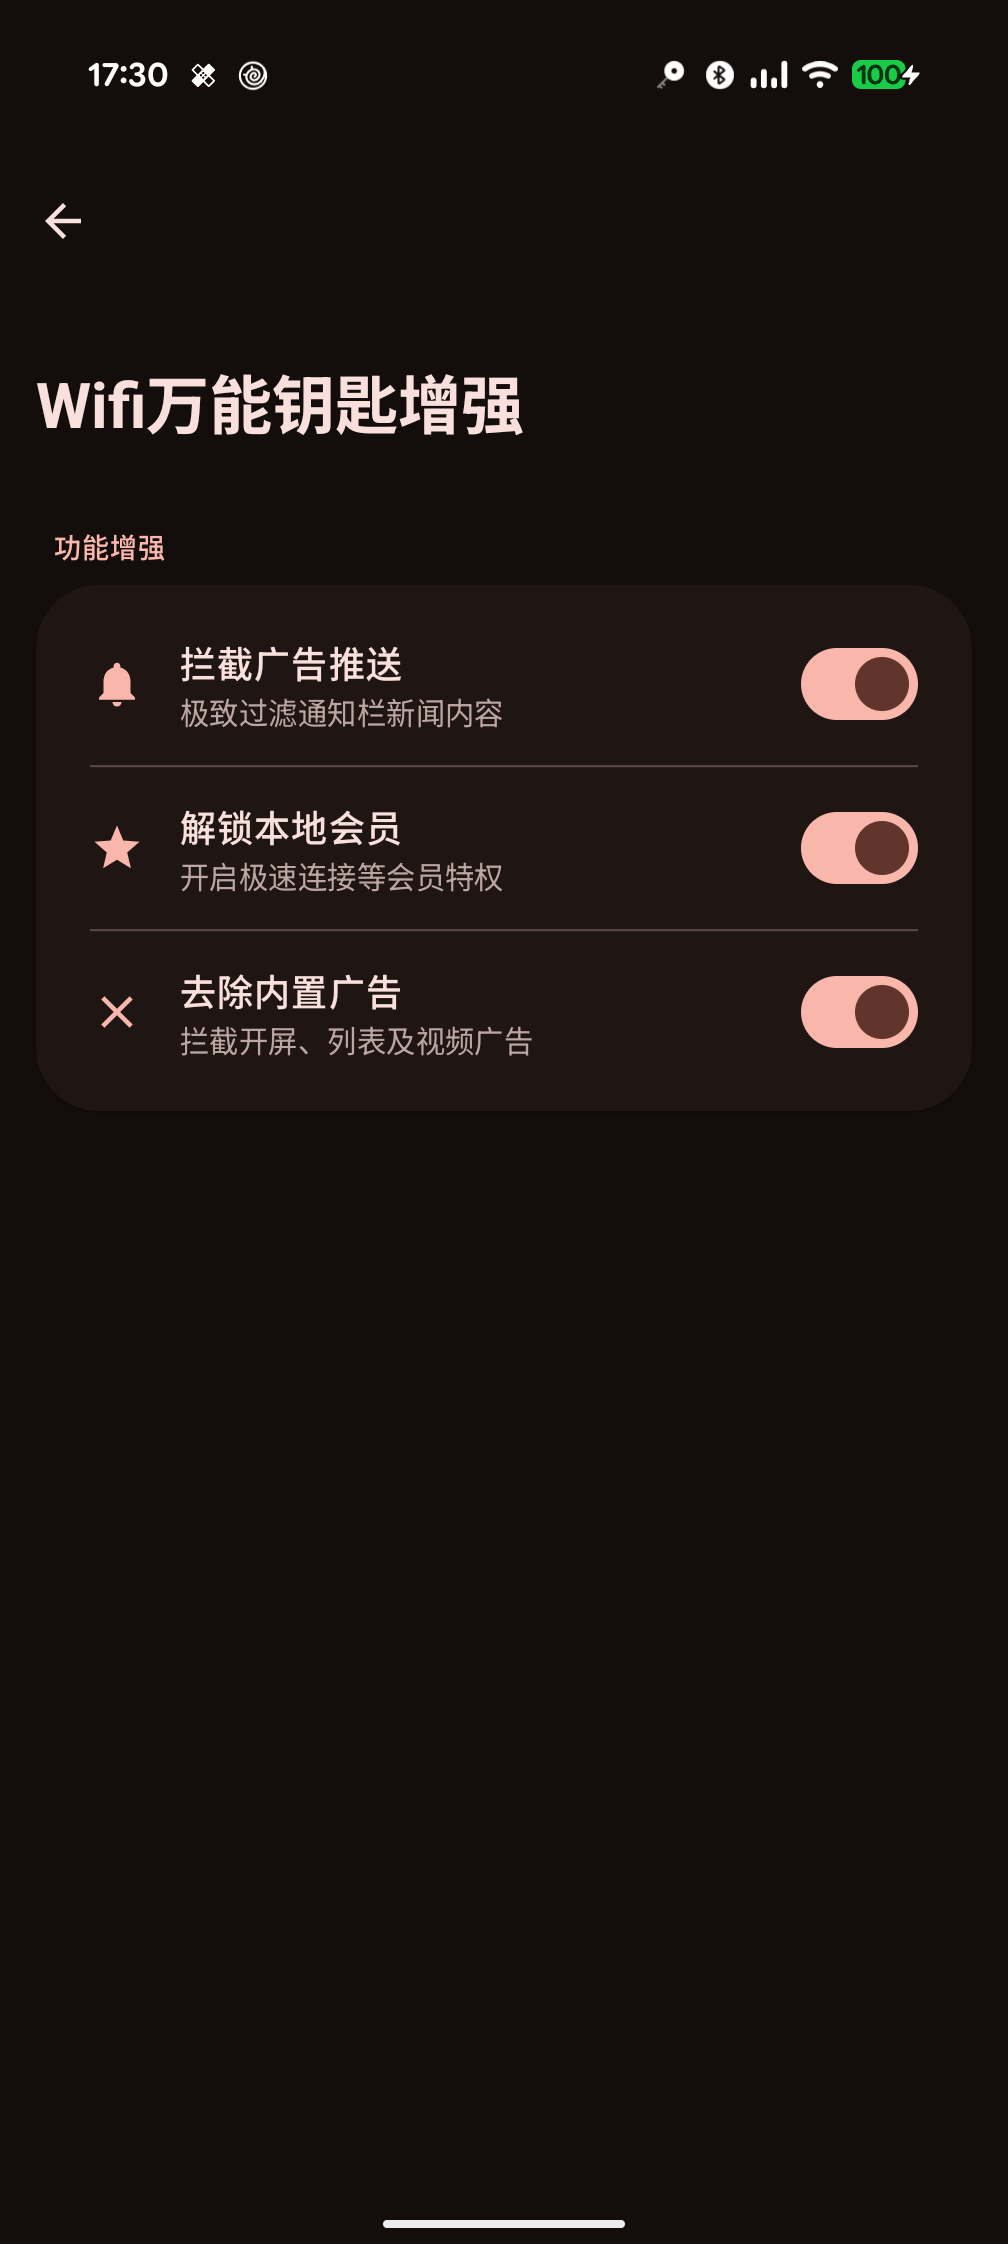
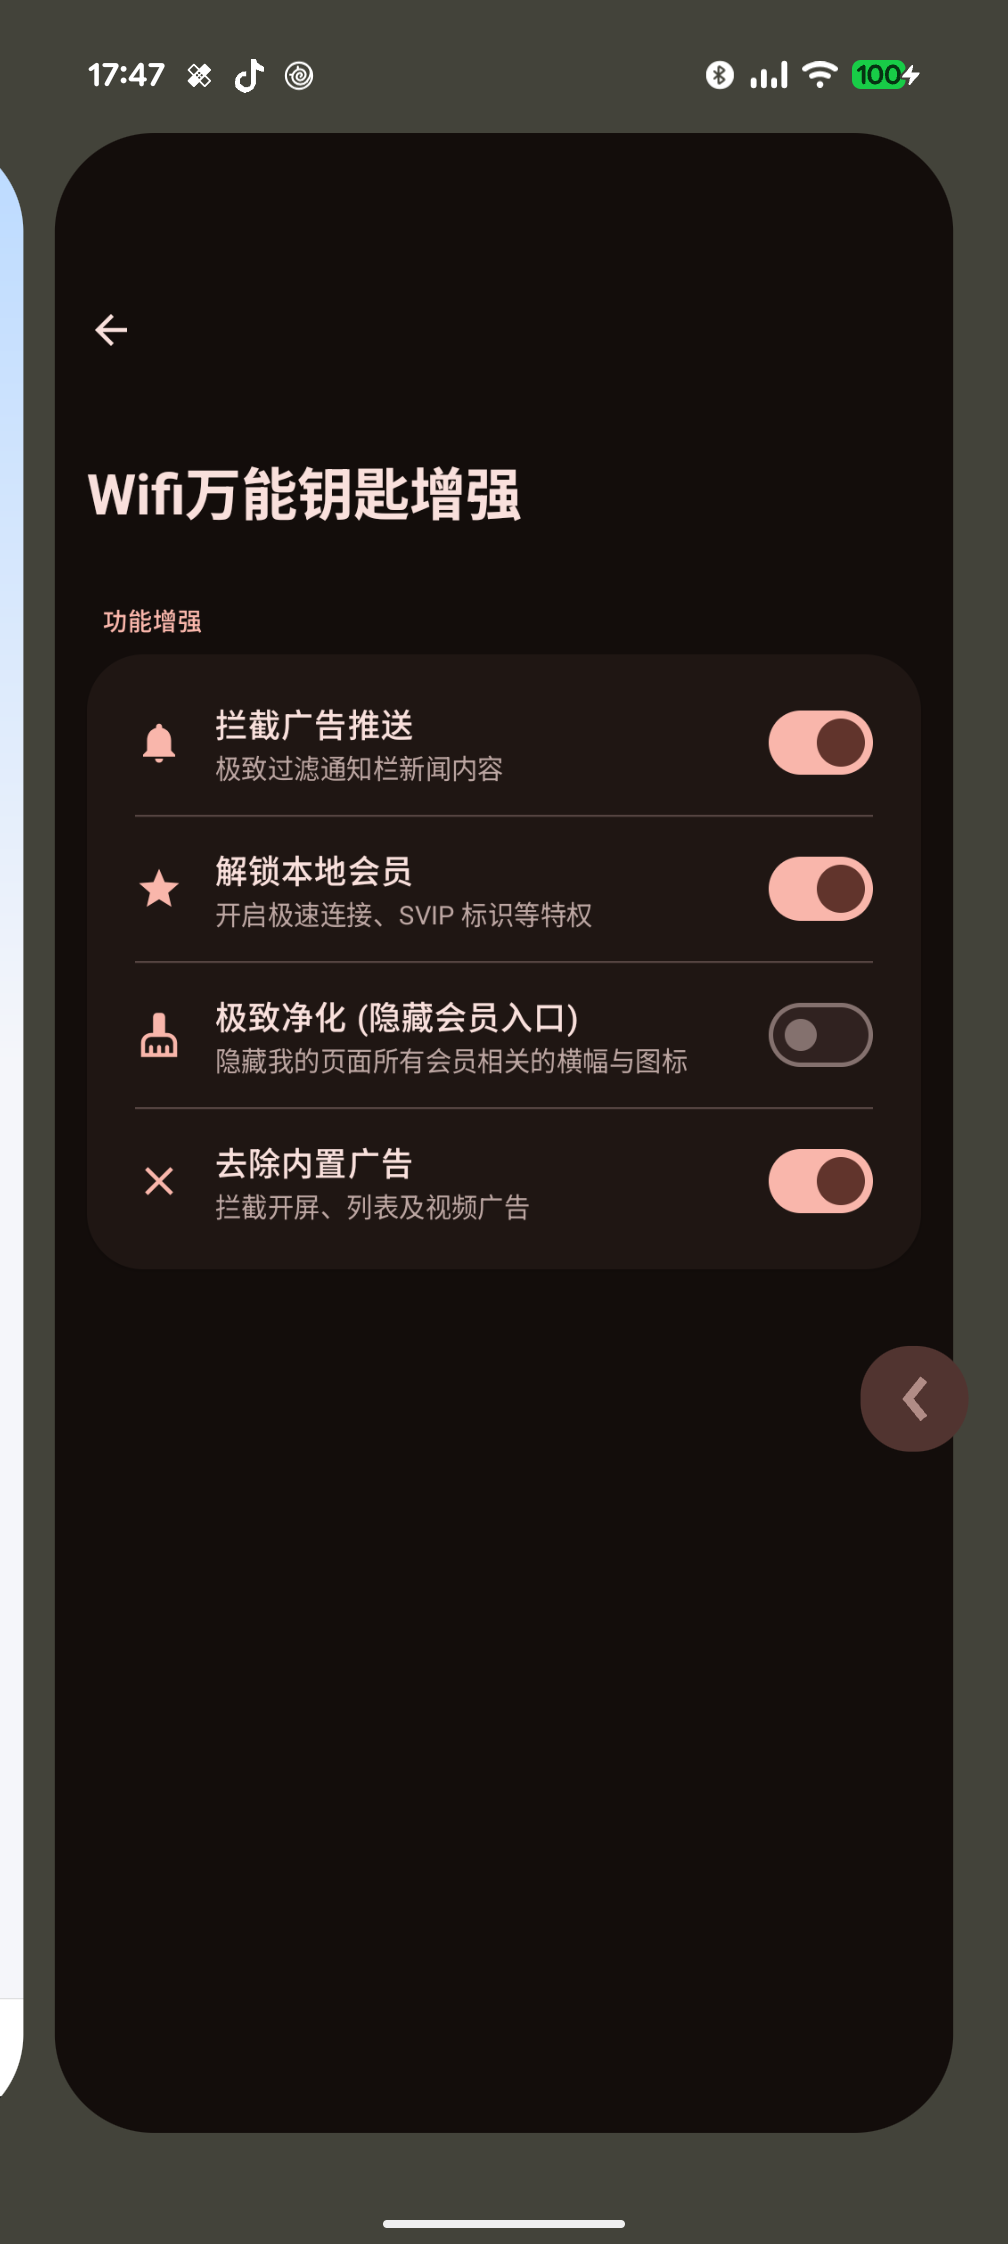
Refine VIP logic: unlock status while hiding promos, add Deep Clean toggle

Changed region(s): [[0.0, 0.0, 1.0, 1.0]]

diff --git a/app/src/main/java/com/ty/wifikeyxposed/SettingsActivity.kt b/app/src/main/java/com/ty/wifikeyxposed/SettingsActivity.kt
@@ -61,6 +61,7 @@ fun SettingsScreen(onBack: () -> Unit) {
 
     var blockNews by remember { mutableStateOf(prefs.getBoolean("block_news", false)) }
     var unlockVip by remember { mutableStateOf(prefs.getBoolean("unlock_vip", true)) }
+    var deepCleanVip by remember { mutableStateOf(prefs.getBoolean("deep_clean_vip", false)) }
     var removeAds by remember { mutableStateOf(prefs.getBoolean("remove_ads", true)) }
 
     Scaffold(
@@ -107,12 +108,23 @@ fun SettingsScreen(onBack: () -> Unit) {
                     HorizontalDivider(modifier = Modifier.padding(horizontal = 16.dp))
                     SettingItem(
                         title = "解锁本地会员",
-                        subtitle = "开启极速连接等会员特权",
+                        subtitle = "开启极速连接、SVIP 标识等特权",
                         icon = Icons.Default.Star,
                         checked = unlockVip,
                         onCheckedChange = {
                             unlockVip = it
                             prefs.edit().putBoolean("unlock_vip", it).apply()
+                        }
+                    )
+                    HorizontalDivider(modifier = Modifier.padding(horizontal = 16.dp))
+                    SettingItem(
+                        title = "极致净化 (隐藏会员入口)",
+                        subtitle = "隐藏我的页面所有会员相关的横幅与图标",
+                        icon = Icons.Default.CleaningServices,
+                        checked = deepCleanVip,
+                        onCheckedChange = {
+                            deepCleanVip = it
+                            prefs.edit().putBoolean("deep_clean_vip", it).apply()
                         }
                     )
                     HorizontalDivider(modifier = Modifier.padding(horizontal = 16.dp))

diff --git a/app/src/main/java/com/ty/wifikeyxposed/MainHook.java b/app/src/main/java/com/ty/wifikeyxposed/MainHook.java
@@ -9,6 +9,7 @@ package com.ty.wifikeyxposed;
  * 5. 日志查看方法：adb logcat -s LSPosed LSPosed-Bridge WiFiKeyXposed
  * 6. Java 路径: /media/tyopxn360/Android/MC/Java/Java21
  * 7. 行为规范：思考必须是中文，交流必须是中文。遇到报错先联网搜索方案，不得盲目乱改。
+ * 8. 解锁策略：必须是“解锁会员”而非“删除会员体系”。保留 SVIP 标识，仅隐藏推广横幅。
  */
 
 import android.content.ComponentName;
@@ -113,56 +114,30 @@ public class MainHook extends XposedModule {
             isBlockField.setAccessible(true);
             isBlockField.set(null, true);
         } catch (Exception ignored) {}
-
-        try {
-            // 5. 拦截广告提供商 SDK 初始化 (可选但有效)
-            // 穿山甲 (TikTok/Pangle)
-            Class<?> ttAdSdkClass = classLoader.loadClass("com.bytedance.sdk.openadsdk.TTAdSdk");
-            // 强制 init 返回，或者拦截 getAdManager
-        } catch (Exception ignored) {}
-    }
-
-    private boolean isRemoveAdsEnabled() {
-        try {
-            return getRemotePreferences("settings").getBoolean("remove_ads", true);
-        } catch (Exception e) {
-            return true;
-        }
     }
 
     private void hookMeFragment(ClassLoader classLoader) {
         try {
-            Class<?> meFragmentClass = classLoader.loadClass(ME_FRAGMENT_CLASS);
+            Class<?> meFragmentClass \u003d classLoader.loadClass(ME_FRAGMENT_CLASS);
             
             // 1. Hook a2 to inject settings entry
-            Method a2Method = meFragmentClass.getDeclaredMethod("a2");
+            Method a2Method \u003d meFragmentClass.getDeclaredMethod("a2");
             a2Method.setAccessible(true);
             hook(a2Method).intercept(new XposedInterface.Hooker() {
                 @Override
                 public Object intercept(@NonNull XposedInterface.Chain chain) throws Throwable {
-                    Object result = chain.proceed();
+                    Object result \u003d chain.proceed();
                     try { injectCustomSettings(chain.getThisObject()); } catch (Exception ignored) {}
                     return result;
                 }
             });
 
-            // 2. Hook b2 (Vip Widget loader) to suppress banners
-            Method b2Method = meFragmentClass.getDeclaredMethod("b2");
-            b2Method.setAccessible(true);
-            hook(b2Method).intercept(new XposedInterface.Hooker() {
-                @Override
-                public Object intercept(@NonNull XposedInterface.Chain chain) throws Throwable {
-                    if (isUnlockVipEnabled()) return null; // Suppress VIP widgets
-                    return chain.proceed();
-                }
-            });
-
-            // 3. Force hide VIP regions in onCreateView or onResume
-            Method onResumeMethod = meFragmentClass.getDeclaredMethod("onResume");
+            // 2. 在 onResume 强制隐藏横幅
+            Method onResumeMethod \u003d meFragmentClass.getDeclaredMethod("onResume");
             hook(onResumeMethod).intercept(new XposedInterface.Hooker() {
                 @Override
                 public Object intercept(@NonNull XposedInterface.Chain chain) throws Throwable {
-                    Object result = chain.proceed();
+                    Object result \u003d chain.proceed();
                     if (isUnlockVipEnabled()) {
                         hideVipBanners(chain.getThisObject());
                     }
@@ -174,15 +149,28 @@ public class MainHook extends XposedModule {
 
     private void hideVipBanners(Object meFragment) {
         try {
-            Object binding = findBindingField(meFragment);
-            if (binding == null) return;
+            Object binding \u003d findBindingField(meFragment);
+            if (binding \u003d\u003d null) return;
             
-            String[] regions = {"regionVip", "regionMovieVip", "vipFlag", "vipSepWifiFlag", "vipSepMovieFlag"};
-            for (String name : regions) {
-                View view = getFieldSafe(binding, name);
-                if (view != null) {
-                    log(4, TAG, "Force hiding VIP banner element: " + name);
-                    view.post(() -> view.setVisibility(View.GONE));
+            boolean deepClean \u003d isDeepCleanVipEnabled();
+            
+            // 推广横幅（解锁会员时无论如何都隐藏，因为 SVIP 无需开通）
+            String[] promos \u003d {"regionVip", "regionMovieVip"};
+            for (String name : promos) {
+                View view \u003d getFieldSafe(binding, name);
+                if (view !\u003d null) {
+                    view.post(() -\u003e view.setVisibility(View.GONE));
+                }
+            }
+            
+            // 身份标识（仅在开启极致净化时隐藏）
+            if (deepClean) {
+                String[] flags \u003d {"vipFlag", "vipSepWifiFlag", "vipSepMovieFlag"};
+                for (String name : flags) {
+                    View view \u003d getFieldSafe(binding, name);
+                    if (view !\u003d null) {
+                        view.post(() -\u003e view.setVisibility(View.GONE));
+                    }
                 }
             }
         } catch (Exception ignored) {}
@@ -449,6 +437,22 @@ public class MainHook extends XposedModule {
             return sp.getBoolean("unlock_vip", true); 
         } catch (Exception e) {
             return true; 
+        }
+    }
+
+    private boolean isDeepCleanVipEnabled() {
+        try {
+            return getRemotePreferences("settings").getBoolean("deep_clean_vip", false);
+        } catch (Exception e) {
+            return false;
+        }
+    }
+
+    private boolean isRemoveAdsEnabled() {
+        try {
+            return getRemotePreferences("settings").getBoolean("remove_ads", true);
+        } catch (Exception e) {
+            return true;
         }
     }
 
